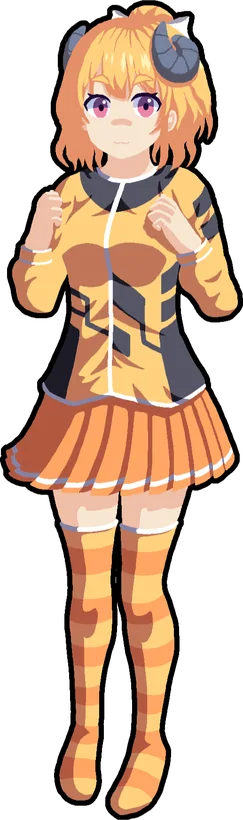
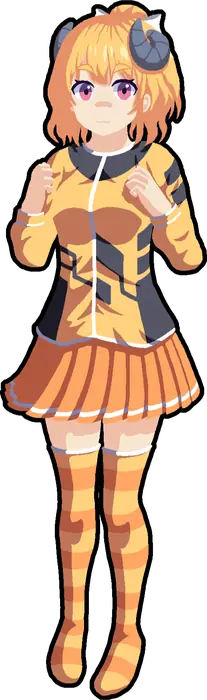
fix: 立绘完整加载后才显示（渐进解码会漏出半张图），压缩立绘 396KB→304KB，预载提前到脚本执行

diff --git a/js/characters.js b/js/characters.js
@@ -163,11 +163,8 @@
     });
   }
 
-  if (document.readyState === "complete") {
-    window.setTimeout(preloadArt, 300);
-  } else {
-    window.addEventListener("load", () => window.setTimeout(preloadArt, 300));
-  }
+  /* 脚本是 defer 的，这里直接开始预载，越早越好 */
+  preloadArt();
 
   /* =======================================================
      二、三个小动作
@@ -268,13 +265,10 @@
       splashImg.src = `images/characters/art-${char.id}.webp`;
       splashImg.alt = char.title;
 
+      /* 只在完整下载并解码后切换：WebP 是渐进解码的，
+         提前显示会漏出「只剩一个头」的半张图 */
       splashImg.addEventListener("load", showArt, { once: true });
       splashImg.addEventListener("error", showArt, { once: true });
-      /* 兜底：1.2 秒后无论如何都切换，不让画面卡在半路 */
-      window.setTimeout(showArt, 1200);
-      if (typeof splashImg.decode === "function") {
-        splashImg.decode().then(showArt).catch(() => {});
-      }
     }
     if (splashTitle) splashTitle.textContent = char.title;
     if (splashSub) splashSub.textContent = char.sub;

diff --git a/projects.html b/projects.html
@@ -54,7 +54,7 @@
   <script src="js/main.js?v=20261032" defer></script>
   <script src="js/pet.js?v=20261025c" defer></script>
   <script src="js/avatar-pet.js?v=20261037" defer></script>
-  <script src="js/characters.js?v=20261046" defer></script>
+  <script src="js/characters.js?v=20261047" defer></script>
   <script src="js/personal.js?v=20261043" defer></script>
 </head>
 <body id="top">
